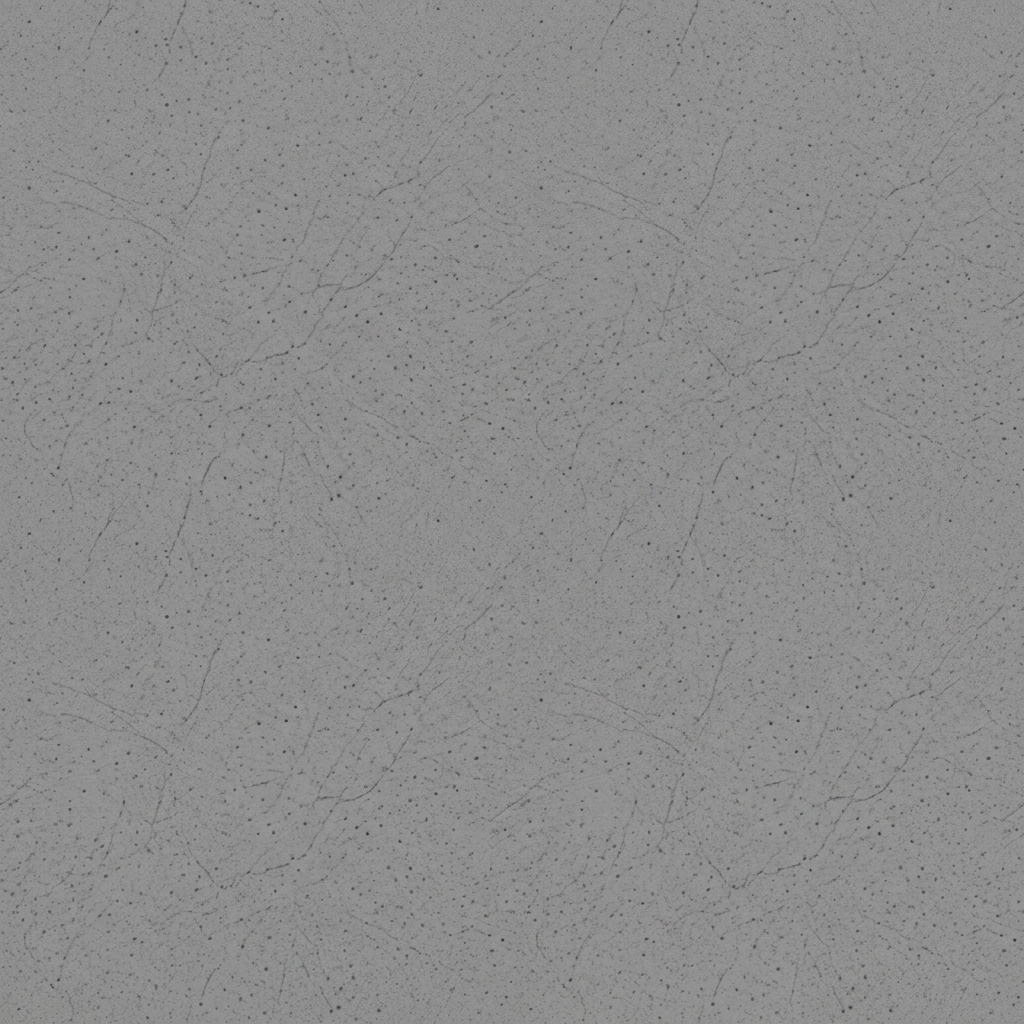
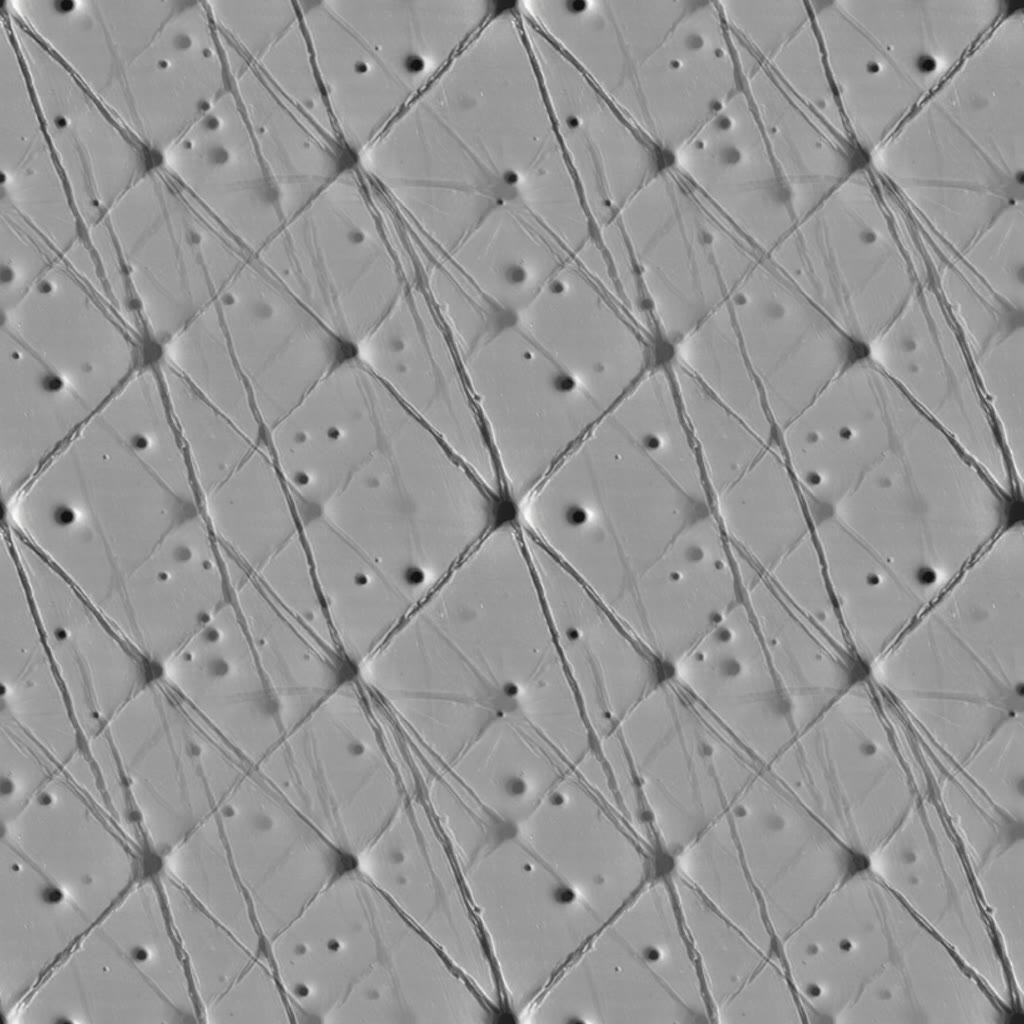
Regenerate the hand skin through Kling, and make it tile
The old texture was a soft orange wash: mean |Laplacian| 2.2 across the
tile and a luma range of 158..188 — thirty levels out of 255. On geometry
that reads as a tint, so the high tier was paying for two texture fetches
and getting a flat colour. It is now 9.3 over 113..234, against 10.4 for an
ordinary photograph of a hand on the same metric.

Text to image, no reference photograph fed in, though Kling takes one
happily and the hand stills that shaped HandPoses.js were right there. A
texture derived from somebody's photograph is that photograph, processed,
and this build is public. Pose numbers measured off a reference are ours;
pixels traceable to it are not.

What a model returns is a photograph of a hand, not a tile — a vein across
the diagonal, a knuckle catching the light, background in two corners. All
large-scale, and large-scale structure is what a tile must not have, or one
vein becomes a grid of veins marching down every finger. process-skin.mjs
crops, high-passes away everything bigger than a pore, and wraps.

The wrap took two attempts and the first one is worth recording: rolling by
half a tile and cross-fading the two sides of the resulting seam averages
each pixel with its mirror, which lays a soft symmetric cross through the
middle — seam error 12.8 → 3.1 and a visible crease. Blending against a
half-offset copy instead, weighted sin² so the copy carries the edges and
the original carries the centre, leaves no structure at all: 15.8 → 3.4 on
[…]

diff --git a/src/world/HandAssets.js b/src/world/HandAssets.js
@@ -27,9 +27,12 @@ import {
  *               procedural materials if the textures do not arrive, because a
  *               missing texture must cost detail and never the hands.
  *
- * The textures are generated by `self-created/generate-hand-skin.mjs` from a
- * text prompt and are the project's own. The reference footage informed the
- * pose *numbers* in `HandPoses.js`; none of it is shipped.
+ * The textures are generated from a text prompt by
+ * `self-created/generate-hand-skin-kling.mjs` and made tileable by
+ * `self-created/process-skin.mjs`; they are the project's own. The reference
+ * footage and stills informed the pose *numbers* in `HandPoses.js`, and nothing
+ * from them is shipped — a texture built from somebody's photograph is that
+ * photograph, processed, which is a different thing from a measurement.
  *
  * A tile rather than a painted-on hand, deliberately: a photograph of a hand
  * mapped onto this geometry fights it at every seam and reads worse than the
